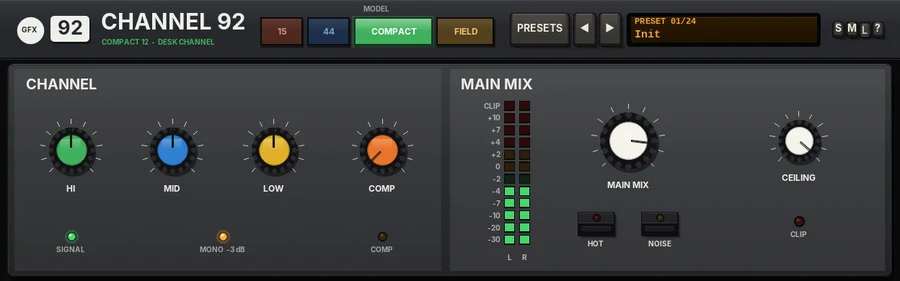
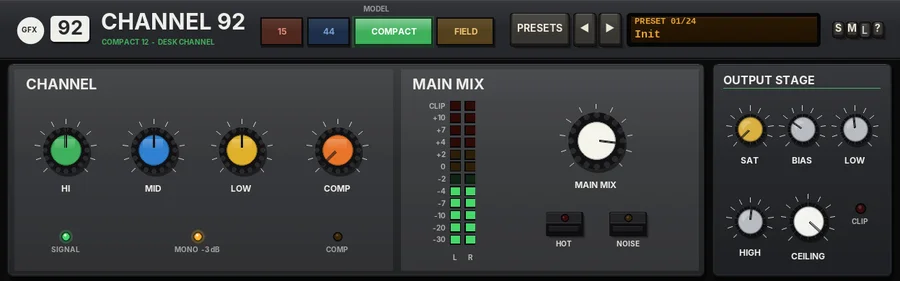
Channel 92: COMPACT gets the shared OUTPUT STAGE column; CHANNEL / MAIN MIX re-balanced; manual and images
Claude-Session: https://claude.ai/code/session_01EwsggPNgywXX6HG8VAWiaU

diff --git a/Manuals/gfx-channel-92.html b/Manuals/gfx-channel-92.html
@@ -45,7 +45,7 @@ footer{border-top:1px solid var(--line);margin-top:40px;padding:24px 0 40px;colo
 <div class="cat">Amps &amp; drive</div><h1>Channel 92</h1>
 <p class="tagline">The 92 series channel strip: the lo-fi 15, the rack tape 44, the COMPACT desk channel and the FIELD location preamp in one chassis.</p>
 <div class="shot"><img src="img/gfx-channel-92.webp" alt="The Channel 92 panel" loading="lazy"></div>
-<h2>Overview</h2><p>Channel 92 is the channel strip of the GFX 92 series: 90s domestic, portable and field gear - utilitarian, compact and mobile. It holds four channel strips in one chassis, and the MODEL keys choose which one is in the circuit:</p><ul><li><strong>15</strong> - the lo-fi channel, in the spirit of the early-80s ultra-portable cassette multitrackers (Model 15).</li><li><strong>44</strong> - the rack tape channel, in the spirit of the early-90s rack-mount cassette portable studios (Model 44).</li><li><strong>COMPACT</strong> - one channel of the little 12-channel desk from every 90s project studio, as a stereo channel strip (Compact 12), with a one-knob compressor.</li><li><strong>FIELD</strong> - one input channel of a battery-powered location mixer (Field 42).</li></ul><p>Each model is the original GFX plug-in, sample for sample: set the same controls and Channel 92 sounds exactly like Model 15, Model 44, one channel of Compact 12 or Field 42 (it nulls against them, with the output clip as described below). Each keeps its own faceplate, controls and layout; the 92 chassis around them adds the shared header, the presets and the output stage. Only the selected model runs, so it costs no more CPU than the original on its own.</p><h3>Reach for it for</h3><ul class="when"><li>Lo-fi cassette character on single tracks and stems (15)</li><li>Tape density and punch with a sweepable mid (44)</li><li>A clean, slightly forward desk channel with simple EQ and a one-knob compressor, or a gritty one with HOT (COMPACT)</li><li>A transformer mic pre with HPF and safety limiters for dialogue, acoustic and drum tracks (FIELD)</li><li>Trying four flavours of 90s gear on a track without swapping plug-ins</li></ul><h2>Controls</h2><h3>The 92 chassis</h3><p class="sub"><strong>The header</strong></p><dl class="ctl"><dt>92 badge, name</dt><dd>The series badge and the plug-in name; under the name, in the colour of the selected model, which model is in the circuit.</dd><dt>MODEL</dt><dd>15, 44, COMPACT or FIELD. Lit coloured keys: the lit key is the model in use (15 by default). Changing model crossfades over 20 ms, so it is click-free even while the music plays; the model you switch to starts from a clean state.</dd><dt>PRESETS</dt><dd>Opens the list of all 24 factory presets (a click on the preset display does the same). The list ends with Reset all to defaults.</dd><dt>&#9668; / &#9658;</dt><dd>Step to the previous or next preset.</dd><dt>Preset display</dt><dd>Shows the number and name of the preset in use. New instances open on Init.</dd><dt>S / M / L</dt><dd>Panel size: small, medium or large (Large is 1.3 times Medium). The panel also scales to fit the plugin window.</dd><dt>?</dt><dd>Opens a pop-up with the design credit, the GFX website address and the address of this manual. Click anywhere to close it.</dd></dl><p class="sub"><strong>OUTPUT STAGE</strong></p><p>The house output stage of the 15 and the 44, in the column at the right of their faceplates: it sits after the model, so it stays as it is when you change between them. Their own OUTPUT level comes after the band saturation, exactly as on the originals. Its soft clipper is always on (no latency); there are no mode keys. COMPACT shares only the CEILING (on its own faceplate, no band saturation); FIELD has no output stage controls: its output always clips softly at -0.3 dBFS, as part of the unit.</p><dl class="ctl"><dt>SAT</dt><dd>Band saturation, 0 - 100% (off by default): only the lows and highs are saturated, the mids stay clean, with a soft curve that loosens as the level rises.</dd><dt>BIAS</dt><dd>Shapes the saturation, 0 - 100% (30% by default): more bias adds more even (2nd) harmonics, for a warmer, rounder colour.</dd><dt>LOW / HIGH</dt><dd>Where the low and high saturation bands start: 40 - 400 Hz (120 Hz by default) and 2 - 16 kHz (6 kHz by default).</dd><dt>CEILING</dt><dd>-24 to 0 dB (-0.3 dB by default): the level the peaks are softly clipped at. The clipper starts to round the peaks off about 2 dB below it; below that it does nothing.</dd><dt>CLIP light</dt><dd>Lights red while the clipper is working.</dd></dl><p class="sub"><strong>Parameter list</strong></p><p>Every control is also in REAPER's parameter list. The names start with the model they belong to (15 Gain, 44 Mid freq, FIELD HPF ...); the shared output stage comes last. FIELD Input iron and FIELD Limiter attack / release are in the list only, as on Field 42.</p><h2>Model 15 - lo-fi channel</h2><div class="shot"><img src="img/gfx-channel-92-15.webp" alt="Channel 92 with the 15 model selected" loading="lazy"></div><h3>Overview</h3><p>Model 15 is a single channel of the classic early-80s ultra-portable cassette multitracker: a low-voltage, battery-driven preamp, a fixed broad-stroke tone stage, a sluggish tape-head saturation with a top end that closes down as the level rises, and an open, breathing hiss floor with simple single-band noise reduction.</p><p>Put it on individual stems to push them towards that compressed, boxy, warm little-recorder sound. The signal runs preamp, then tone, then tape, and MIX blends the result with the dry input.</p>
+<h2>Overview</h2><p>Channel 92 is the channel strip of the GFX 92 series: 90s domestic, portable and field gear - utilitarian, compact and mobile. It holds four channel strips in one chassis, and the MODEL keys choose which one is in the circuit:</p><ul><li><strong>15</strong> - the lo-fi channel, in the spirit of the early-80s ultra-portable cassette multitrackers (Model 15).</li><li><strong>44</strong> - the rack tape channel, in the spirit of the early-90s rack-mount cassette portable studios (Model 44).</li><li><strong>COMPACT</strong> - one channel of the little 12-channel desk from every 90s project studio, as a stereo channel strip (Compact 12), with a one-knob compressor.</li><li><strong>FIELD</strong> - one input channel of a battery-powered location mixer (Field 42).</li></ul><p>Each model is the original GFX plug-in, sample for sample: set the same controls and Channel 92 sounds exactly like Model 15, Model 44, one channel of Compact 12 or Field 42 (it nulls against them, with the output clip as described below). Each keeps its own faceplate, controls and layout; the 92 chassis around them adds the shared header, the presets and the output stage. Only the selected model runs, so it costs no more CPU than the original on its own.</p><h3>Reach for it for</h3><ul class="when"><li>Lo-fi cassette character on single tracks and stems (15)</li><li>Tape density and punch with a sweepable mid (44)</li><li>A clean, slightly forward desk channel with simple EQ and a one-knob compressor, or a gritty one with HOT (COMPACT)</li><li>A transformer mic pre with HPF and safety limiters for dialogue, acoustic and drum tracks (FIELD)</li><li>Trying four flavours of 90s gear on a track without swapping plug-ins</li></ul><h2>Controls</h2><h3>The 92 chassis</h3><p class="sub"><strong>The header</strong></p><dl class="ctl"><dt>92 badge, name</dt><dd>The series badge and the plug-in name; under the name, in the colour of the selected model, which model is in the circuit.</dd><dt>MODEL</dt><dd>15, 44, COMPACT or FIELD. Lit coloured keys: the lit key is the model in use (15 by default). Changing model crossfades over 20 ms, so it is click-free even while the music plays; the model you switch to starts from a clean state.</dd><dt>PRESETS</dt><dd>Opens the list of all 24 factory presets (a click on the preset display does the same). The list ends with Reset all to defaults.</dd><dt>&#9668; / &#9658;</dt><dd>Step to the previous or next preset.</dd><dt>Preset display</dt><dd>Shows the number and name of the preset in use. New instances open on Init.</dd><dt>S / M / L</dt><dd>Panel size: small, medium or large (Large is 1.3 times Medium). The panel also scales to fit the plugin window.</dd><dt>?</dt><dd>Opens a pop-up with the design credit, the GFX website address and the address of this manual. Click anywhere to close it.</dd></dl><p class="sub"><strong>OUTPUT STAGE</strong></p><p>The house output stage of the 15, the 44 and COMPACT, in the column at the right of their faceplates: it sits after the model, so it stays as it is when you change between them. On the 15 and the 44 their own OUTPUT level comes after the band saturation, exactly as on the originals. Its soft clipper is always on (no latency); there are no mode keys. FIELD has no output stage controls: its output always clips softly at -0.3 dBFS, as part of the unit.</p><dl class="ctl"><dt>SAT</dt><dd>Band saturation, 0 - 100% (off by default): only the lows and highs are saturated, the mids stay clean, with a soft curve that loosens as the level rises.</dd><dt>BIAS</dt><dd>Shapes the saturation, 0 - 100% (30% by default): more bias adds more even (2nd) harmonics, for a warmer, rounder colour.</dd><dt>LOW / HIGH</dt><dd>Where the low and high saturation bands start: 40 - 400 Hz (120 Hz by default) and 2 - 16 kHz (6 kHz by default).</dd><dt>CEILING</dt><dd>-24 to 0 dB (-0.3 dB by default): the level the peaks are softly clipped at. The clipper starts to round the peaks off about 2 dB below it; below that it does nothing.</dd><dt>CLIP light</dt><dd>Lights red while the clipper is working.</dd></dl><p class="sub"><strong>Parameter list</strong></p><p>Every control is also in REAPER's parameter list. The names start with the model they belong to (15 Gain, 44 Mid freq, FIELD HPF ...); the shared output stage comes last. FIELD Input iron and FIELD Limiter attack / release are in the list only, as on Field 42.</p><h2>Model 15 - lo-fi channel</h2><div class="shot"><img src="img/gfx-channel-92-15.webp" alt="Channel 92 with the 15 model selected" loading="lazy"></div><h3>Overview</h3><p>Model 15 is a single channel of the classic early-80s ultra-portable cassette multitracker: a low-voltage, battery-driven preamp, a fixed broad-stroke tone stage, a sluggish tape-head saturation with a top end that closes down as the level rises, and an open, breathing hiss floor with simple single-band noise reduction.</p><p>Put it on individual stems to push them towards that compressed, boxy, warm little-recorder sound. The signal runs preamp, then tone, then tape, and MIX blends the result with the dry input.</p>
 <p class="sub"><strong>Reach for it for</strong></p><ul class="when"><li>Bedroom-demo character on drums, guitars and vocals</li><li>Warm, boxy saturation that glues transients together</li><li>Lo-fi wobble, hiss and worn-tape dropouts</li><li>Making a clean stem sit with genuinely lo-fi material</li><li>Parallel tape colour with MIX</li></ul>
 <h3>Controls</h3><p class="sub"><strong>Channel</strong></p><dl class="ctl"><dt>Signal light</dt><dd>Glows green when audio is coming out of the plugin.</dd><dt>GAIN</dt><dd>The low-voltage preamp, -6 to +24 dB (+6 dB by default). Above 0 dB it clips early and asymmetrically, smearing transients and thickening the low mids.</dd><dt>TREBLE</dt><dd>A broad high shelf at 10 kHz, -10 to +10 dB. Push it hard and the shelf itself turns a little gritty and grainy rather than staying clean.</dd><dt>BASS</dt><dd>A broad low shelf at 100 Hz, -10 to +10 dB, with the same gentle grit when pushed.</dd><dt>TRIM</dt><dd>Input level before anything else, from -24 to +12 dB.</dd><dt>GUARD</dt><dd>On by default. Gently eases very hot sources down towards about -18 dBFS average and catches fast peaks above -6 dBFS, so loud sources never overdrive the plugin. It never boosts quiet sources.</dd><dt>MIX</dt><dd>The coloured signal against the dry input, 0 - 100%.</dd></dl><p class="sub"><strong>OUTPUT</strong></p><dl class="ctl"><dt>VU</dt><dd>One VU meter for the output: it reads the louder side, in the house calibration (a sine peaking at -18 dBFS reads 0 VU). The green light at the top of the CHANNEL section glows when audio is coming out.</dd></dl><p class="sub"><strong>Tape</strong></p><dl class="ctl"><dt>DRIVE</dt><dd>The tape saturation, 0 - 100% (35% by default): a sluggish magnetic memory ahead of a soft saturation curve, plus a top end that rolls off further as the level rises, gluing transients together. A small, fixed head bump around 80 Hz is always there.</dd><dt>WOW</dt><dd>Wow and flutter in the transport, 0 - 100 (25 by default): a slow wow, a slower random wander and a faint 6 Hz flutter.</dd><dt>HISS</dt><dd>The tape's own noise floor, 0 - 100 (50 by default). It ducks a little under the signal and swells back in the gaps. Each side has its own hiss.</dd><dt>AGE</dt><dd>An older, worn tape, 0 - 100 (15 by default): the top end goes further and short dropouts creep in, more often the higher you turn it.</dd><dt>OUTPUT</dt><dd>The output level, -24 to +12 dB.</dd><dt>NR</dt><dd>The simple B-type-style noise reduction, in by default: the quiet highs are lifted before the tape and taken back down after it, which lowers the hiss. Out gives the raw tape, hiss and all.</dd></dl><h3>Tips</h3><ul class="tips"><li>GAIN and DRIVE do different things: GAIN gives the preamp's early, edgy clipping, DRIVE the softer tape squash and darkening. Try one high and the other low.</li><li>On a set of stems, keep WOW low on all but one or two so the mix doesn't drift out of tune with itself.</li><li>Switching NR out is the quickest way to that hissy, open home-recording sound.</li><li>Turn MIX down to 40 - 60% to keep the attack of drums while adding the tape's body.</li></ul>
 <h2>Model 44 - rack channel</h2><div class="shot"><img src="img/gfx-channel-92-44.webp" alt="Channel 92 with the 44 model selected" loading="lazy"></div><h3>Overview</h3><p>Model 44 is a single channel strip in the spirit of the early-90s rack-mount cassette multitrack gear. The signal goes through a clean, high-headroom preamp, a three-band EQ with a sweepable mid, and then a tape stage: a dense magnetic saturation ceiling with a NORMAL / DOUBLE speed switch and compander noise reduction.</p><p>The preamp itself stays clean - the colour and the ceiling come from the tape. Double speed raises that ceiling, extends the top end and tightens the sub-bass, for a punchier, cleaner sound; normal speed is softer, darker and saturates earlier. The noise reduction is tuned to pump less than the earlier 80s machines.</p>
@@ -55,6 +55,6 @@ footer{border-top:1px solid var(--line);margin-top:40px;padding:24px 0 40px;colo
 <p class="sub"><strong>Reach for it for</strong></p><ul class="when"><li>Dialogue, voice-over and location recordings</li><li>A clean, safe preamp-and-limiter on any track</li><li>Gentle iron weight on drums, bass and acoustic instruments</li><li>Catching stray peaks before they reach the mix</li></ul>
 <h3>Controls</h3><p class="sub"><strong>INPUT</strong></p><dl class="ctl"><dt>VU meter</dt><dd>The level after the preamp, before the limiters, with VU ballistics. 0 VU = -20 dBFS.</dd><dt>PEAK</dt><dd>Lights when the preamp's output goes above -1 dBFS.</dd><dt>IN LIM / OUT LIM</dt><dd>Light when the input or output limiter is working.</dd></dl><p class="sub"><strong>PREAMP</strong></p><dl class="ctl"><dt>HPF</dt><dd>A high-pass filter, 80 to 240 Hz, 12 dB per octave, before the preamp. Fully left is OFF.</dd><dt>TRIM</dt><dd>Gain into the preamp, -20 to +40 dB.</dd><dt>IN LIMIT</dt><dd>The input safety limiter: fixed at -2 dBFS (+18 dBu), 20:1, very fast. On by default.</dd><dt>Ø</dt><dd>Polarity reverse.</dd><dt>IRON</dt><dd>The input transformer's colour (also in the parameter list).</dd></dl><p class="sub"><strong>CHANNEL</strong></p><dl class="ctl"><dt>PAN</dt><dd>Constant loudness: +3 dB at hard left or right, as on the hardware. On a stereo track it works as a balance.</dd><dt>FADER</dt><dd>Unity at 0 dB; -40 dB (OFF) to +10 dB.</dd><dt>TONE</dt><dd>A line-up oscillator that replaces the signal. The next key picks 1 kHz, 400 Hz or 100 Hz; LEVEL sets -20 to +8 dBu (0 dBu = -20 dBFS).</dd></dl><p class="sub"><strong>OUTPUT</strong></p><dl class="ctl"><dt>OFF / ON / LINK</dt><dd>The output limiter: off, each side on its own, or stereo-linked (the default).</dd><dt>LIMIT</dt><dd>The output limiter's threshold, +4 to +20 dBu (-16 to 0 dBFS), 20:1.</dd><dt>IRON</dt><dd>The output transformer: low-mid weight and a softer top when driven.</dd><dt>DRIFT</dt><dd>See Drift below.</dd><dt>OUT meters</dt><dd>The output level, left and right.</dd></dl><p class="sub"><strong>Parameter list only</strong></p><p>FIELD Input iron (the input transformer's colour, 30% by default) and FIELD Limiter attack and release (1 ms and 200 ms by default).</p><p class="sub"><strong>Drift</strong></p><p>DRIFT (0 - 100%, 50% by default) is battery sag. The supply voltage wanders slowly and droops under heavy, sustained level, so the preamp's headroom, the limiter thresholds and the transformers' drive all move a little - you hear it most when the unit is pushed. 50% is the standard amount, 100% twice that; 0% is a fresh battery.</p>
 <h3>Tips</h3><ul class="tips"><li>Set TRIM so the VU swings around 0 on the loud parts; that is where the iron starts to colour.</li><li>Use the TONE to line up levels between tracks or with other gear.</li><li>LINK keeps a stereo image steady under limiting; ON lets each side limit on its own.</li></ul>
-<p class="sub"><strong>Output</strong></p><p>The output always clips softly at -0.3 dBFS (the house clip at its default ceiling, no band saturation): it is part of the unit, with no controls. The TRIM glides to a new setting over about 20 ms, so turning it never clicks.</p><h2>COMPACT - desk channel (Compact 12)</h2><div class="shot"><img src="img/gfx-channel-92-compact.webp" alt="Channel 92 with the COMPACT model selected" loading="lazy"></div><h3>Overview</h3><p>One channel of the Compact 12 desk as a stereo channel strip: the desk's own channel EQ on both sides, then the desk's summing amp with MAIN MIX, HOT and NOISE, so a track gets the clean, tight, slightly forward sound of the little desk - or its gritty edge when you run it hot. Level, pan, mute and solo are left to REAPER's track. A one-knob compressor, as on many compact desks (the same design as on Strip 102), sits after the EQ.</p><p>Mono or stereo is automatic. When the two sides carry the same signal (a mono source) the strip treats it as one of the desk's mono channels and sits it 3 dB down, as the desk does at the centre of its pan; a stereo source passes at full level, as on the desk's stereo pairs. The change glides in or out over about 50 ms, so it never clicks. With COMP at 0 it sounds exactly like that mono channel, or that stereo pair, of Compact 12 summed on its own (with MID at 0 for a stereo pair, which has no MID on the desk).</p><h3>Reach for it for</h3><ul class="when"><li>Clean, honest channel EQ with a touch of desk character</li><li>Grit and bite on drums and bass with HOT</li><li>Quick, even level on vocals and guitars with the one-knob COMP</li><li>Stereo keys and synths through a stereo desk channel</li></ul><h3>Controls</h3><p class="sub"><strong>CHANNEL</strong></p><dl class="ctl"><dt>HI</dt><dd>A high shelf at 12 kHz, -15 to +15 dB.</dd><dt>MID</dt><dd>A peak at 2.5 kHz, -12 to +12 dB.</dd><dt>LOW</dt><dd>A low shelf at 80 Hz, -15 to +15 dB.</dd><dt>COMP</dt><dd>The one-knob compressor, 0 - 10 (0 = off, the default). Turning it up lowers the threshold (0 to -30 dB), raises the ratio (1:1 to 10:1) and adds make-up gain, so at normal levels (around -17 dBFS RMS) the overall level stays the same within about 1 dB however far you turn it. The detector hears both sides together.</dd><dt>SIGNAL</dt><dd>Glows green when signal arrives.</dd><dt>MONO -3 dB</dt><dd>Lights while the strip hears a mono source and applies the desk's 3 dB centre dip.</dd><dt>COMP (light)</dt><dd>Lights when the compressor is taking off more than 1 dB.</dd></dl><p class="sub"><strong>MAIN MIX</strong></p><dl class="ctl"><dt>Meters</dt><dd>12-LED meters for the left and right output, 0 = 0 VU = -18 dBFS.</dd><dt>MAIN MIX</dt><dd>The desk's main level, -60 dB (OFF) to +10 dB, into its summing amp.</dd><dt>HOT</dt><dd>Drives the summing amp into its rails: grit, edge and a little bite, level-matched.</dd><dt>NOISE</dt><dd>Adds the desk's own hiss floor, about -84 dBFS.</dd><dt>CEILING</dt><dd>The level of the always-on soft clip at the output, -24 to 0 dB (-0.3 dB by default; shared with the 15 and the 44).</dd><dt>CLIP</dt><dd>Lights red while the clip is working.</dd></dl><h3>Tips</h3><ul class="tips"><li>HOT on a drum bus or bass is the classic 90s project-studio grit; switch it in and out to hear it.</li><li>COMP between 2 and 4 evens out a vocal or acoustic guitar without sounding squashed; past 7 it pumps on purpose.</li><li>Set the level, pan and mutes on REAPER's track as usual: the strip has no LEVEL, BAL or MUTE of its own.</li></ul><h2>Presets</h2><p>Every preset of the three originals, named by model. Choosing one also selects its model. Like the originals, presets leave the output stage (and the controls each original left alone) as they are.</p><dl class="ctl"><dt>Init</dt><dd>The 15 at its default settings: the state a new instance opens in.</dd><dt>15: Bedroom Demo</dt><dd>The standard setting with a touch more TREBLE, BASS and DRIVE, NR in.</dd><dt>15: Hot and Boxy</dt><dd>The preamp pushed to +15 dB into 70% tape drive, with more hiss and age.</dd><dt>15: No NR, Open Tape</dt><dd>Noise reduction out and the hiss turned well up.</dd><dt>15: Worn-out Portable</dt><dd>Heavy wow, lots of age and dropouts, a little extra bass.</dd><dt>15: Clean-ish Portable</dt><dd>Preamp at 0 dB, light drive, wow, hiss and age.</dd><dt>44: Clean Double Speed</dt><dd>Double speed with light drive, a small treble lift and NR in.</dd><dt>44: Normal Speed Warm</dt><dd>Normal speed, more gain, a little low-mid and bass lift, NR in.</dd><dt>44: Rack Punch</dt><dd>Double speed, 14 dB of gain and 55% drive, with a 2.5 kHz and treble lift.</dd><dt>44: Scooped Mids</dt><dd>Double speed with a 4 dB cut at 600 Hz and a touch of treble and bass.</dd><dt>44: No NR</dt><dd>Normal speed with the noise reduction out: the raw tape.</dd><dt>COMPACT: Clean Channel</dt><dd>Flat EQ, COMP off, HOT and NOISE off, MAIN MIX at 0 dB.</dd><dt>COMPACT: Hot Channel</dt><dd>Flat, with HOT on: the summing amp pushed into its rails.</dd><dt>COMPACT: Hot and Noisy</dt><dd>HOT and the desk NOISE: the real thing.</dd><dt>COMPACT: Vocal Presence</dt><dd>HI +2, MID +3, LOW -3 dB with COMP at 4: forward and even.</dd><dt>COMPACT: Keys</dt><dd>HI +2, LOW +1 dB, a light COMP at 2.</dd><dt>FIELD: Init</dt><dd>Clean: HPF off, unity gain, both limiters on.</dd><dt>FIELD: Dialogue Boom</dt><dd>HPF at 120 Hz, +6 dB.</dd><dt>FIELD: Lavalier</dt><dd>HPF at 160 Hz to clear clothing rustle and rumble.</dd><dt>FIELD: Acoustic</dt><dd>HPF at 85 Hz, a little more iron.</dd><dt>FIELD: Drum Room</dt><dd>+12 dB into the iron, output limiter at +14 dBu.</dd><dt>FIELD: Kick and Bass</dt><dd>HPF off, heavy iron, limiter per side.</dd><dt>FIELD: Hot Field</dt><dd>+18 dB, lots of iron, a low output limit: dense and driven.</dd><dt>FIELD: Safety Net</dt><dd>Unity gain with the output limiter at +10 dBu: a quiet, safe ceiling.</dd><dt>Reset all to defaults</dt><dd>(Last in the list.) Every control of every model, the MODEL (back to 15) and the output stage to their starting values.</dd></dl><p>Changing preset on the 15 is click-free: the tape ducks out for a moment, the new settings come in at silence and it fades back in (as on Model 15).</p><h2>Tips</h2><ul class="tips"><li>To compare the models on a track, set the OUTPUT (15 / 44) or FADER (FIELD) so they play at the same level, then switch MODEL while the track loops: the 20 ms crossfade makes it a fair A/B.</li><li>Each model remembers its own settings while you use another, so you can set them all up and pick the one that fits.</li><li>The output stage stays put when you change between 15 and 44; the soft clip is always there as a safety net on every model.</li><li>Only FIELD drifts (battery sag); the 15 has its own wow and flutter instead.</li></ul>
+<p class="sub"><strong>Output</strong></p><p>The output always clips softly at -0.3 dBFS (the house clip at its default ceiling, no band saturation): it is part of the unit, with no controls. The TRIM glides to a new setting over about 20 ms, so turning it never clicks.</p><h2>COMPACT - desk channel (Compact 12)</h2><div class="shot"><img src="img/gfx-channel-92-compact.webp" alt="Channel 92 with the COMPACT model selected" loading="lazy"></div><h3>Overview</h3><p>One channel of the Compact 12 desk as a stereo channel strip: the desk's own channel EQ on both sides, then the desk's summing amp with MAIN MIX, HOT and NOISE, so a track gets the clean, tight, slightly forward sound of the little desk - or its gritty edge when you run it hot. Level, pan, mute and solo are left to REAPER's track. A one-knob compressor, as on many compact desks (the same design as on Strip 102), sits after the EQ.</p><p>Mono or stereo is automatic. When the two sides carry the same signal (a mono source) the strip treats it as one of the desk's mono channels and sits it 3 dB down, as the desk does at the centre of its pan; a stereo source passes at full level, as on the desk's stereo pairs. The change glides in or out over about 50 ms, so it never clicks. With COMP at 0 it sounds exactly like that mono channel, or that stereo pair, of Compact 12 summed on its own (with MID at 0 for a stereo pair, which has no MID on the desk).</p><h3>Reach for it for</h3><ul class="when"><li>Clean, honest channel EQ with a touch of desk character</li><li>Grit and bite on drums and bass with HOT</li><li>Quick, even level on vocals and guitars with the one-knob COMP</li><li>Stereo keys and synths through a stereo desk channel</li></ul><h3>Controls</h3><p class="sub"><strong>CHANNEL</strong></p><dl class="ctl"><dt>HI</dt><dd>A high shelf at 12 kHz, -15 to +15 dB.</dd><dt>MID</dt><dd>A peak at 2.5 kHz, -12 to +12 dB.</dd><dt>LOW</dt><dd>A low shelf at 80 Hz, -15 to +15 dB.</dd><dt>COMP</dt><dd>The one-knob compressor, 0 - 10 (0 = off, the default). Turning it up lowers the threshold (0 to -30 dB), raises the ratio (1:1 to 10:1) and adds make-up gain, so at normal levels (around -17 dBFS RMS) the overall level stays the same within about 1 dB however far you turn it. The detector hears both sides together.</dd><dt>SIGNAL</dt><dd>Glows green when signal arrives.</dd><dt>MONO -3 dB</dt><dd>Lights while the strip hears a mono source and applies the desk's 3 dB centre dip.</dd><dt>COMP (light)</dt><dd>Lights when the compressor is taking off more than 1 dB.</dd></dl><p class="sub"><strong>MAIN MIX</strong></p><dl class="ctl"><dt>Meters</dt><dd>12-LED meters for the left and right output, 0 = 0 VU = -18 dBFS.</dd><dt>MAIN MIX</dt><dd>The desk's main level, -60 dB (OFF) to +10 dB, into its summing amp.</dd><dt>HOT</dt><dd>Drives the summing amp into its rails: grit, edge and a little bite, level-matched.</dd><dt>NOISE</dt><dd>Adds the desk's own hiss floor, about -84 dBFS.</dd></dl><p class="sub"><strong>OUTPUT STAGE</strong></p><p>The 92 output stage column, shared with the 15 and the 44: SAT, BIAS, LOW, HIGH, CEILING and the CLIP light (see The 92 chassis above).</p><h3>Tips</h3><ul class="tips"><li>HOT on a drum bus or bass is the classic 90s project-studio grit; switch it in and out to hear it.</li><li>COMP between 2 and 4 evens out a vocal or acoustic guitar without sounding squashed; past 7 it pumps on purpose.</li><li>Set the level, pan and mutes on REAPER's track as usual: the strip has no LEVEL, BAL or MUTE of its own.</li></ul><h2>Presets</h2><p>Every preset of the three originals, named by model. Choosing one also selects its model. Like the originals, presets leave the output stage (and the controls each original left alone) as they are.</p><dl class="ctl"><dt>Init</dt><dd>The 15 at its default settings: the state a new instance opens in.</dd><dt>15: Bedroom Demo</dt><dd>The standard setting with a touch more TREBLE, BASS and DRIVE, NR in.</dd><dt>15: Hot and Boxy</dt><dd>The preamp pushed to +15 dB into 70% tape drive, with more hiss and age.</dd><dt>15: No NR, Open Tape</dt><dd>Noise reduction out and the hiss turned well up.</dd><dt>15: Worn-out Portable</dt><dd>Heavy wow, lots of age and dropouts, a little extra bass.</dd><dt>15: Clean-ish Portable</dt><dd>Preamp at 0 dB, light drive, wow, hiss and age.</dd><dt>44: Clean Double Speed</dt><dd>Double speed with light drive, a small treble lift and NR in.</dd><dt>44: Normal Speed Warm</dt><dd>Normal speed, more gain, a little low-mid and bass lift, NR in.</dd><dt>44: Rack Punch</dt><dd>Double speed, 14 dB of gain and 55% drive, with a 2.5 kHz and treble lift.</dd><dt>44: Scooped Mids</dt><dd>Double speed with a 4 dB cut at 600 Hz and a touch of treble and bass.</dd><dt>44: No NR</dt><dd>Normal speed with the noise reduction out: the raw tape.</dd><dt>COMPACT: Clean Channel</dt><dd>Flat EQ, COMP off, HOT and NOISE off, MAIN MIX at 0 dB.</dd><dt>COMPACT: Hot Channel</dt><dd>Flat, with HOT on: the summing amp pushed into its rails.</dd><dt>COMPACT: Hot and Noisy</dt><dd>HOT and the desk NOISE: the real thing.</dd><dt>COMPACT: Vocal Presence</dt><dd>HI +2, MID +3, LOW -3 dB with COMP at 4: forward and even.</dd><dt>COMPACT: Keys</dt><dd>HI +2, LOW +1 dB, a light COMP at 2.</dd><dt>FIELD: Init</dt><dd>Clean: HPF off, unity gain, both limiters on.</dd><dt>FIELD: Dialogue Boom</dt><dd>HPF at 120 Hz, +6 dB.</dd><dt>FIELD: Lavalier</dt><dd>HPF at 160 Hz to clear clothing rustle and rumble.</dd><dt>FIELD: Acoustic</dt><dd>HPF at 85 Hz, a little more iron.</dd><dt>FIELD: Drum Room</dt><dd>+12 dB into the iron, output limiter at +14 dBu.</dd><dt>FIELD: Kick and Bass</dt><dd>HPF off, heavy iron, limiter per side.</dd><dt>FIELD: Hot Field</dt><dd>+18 dB, lots of iron, a low output limit: dense and driven.</dd><dt>FIELD: Safety Net</dt><dd>Unity gain with the output limiter at +10 dBu: a quiet, safe ceiling.</dd><dt>Reset all to defaults</dt><dd>(Last in the list.) Every control of every model, the MODEL (back to 15) and the output stage to their starting values.</dd></dl><p>Changing preset on the 15 is click-free: the tape ducks out for a moment, the new settings come in at silence and it fades back in (as on Model 15).</p><h2>Tips</h2><ul class="tips"><li>To compare the models on a track, set the OUTPUT (15 / 44) or FADER (FIELD) so they play at the same level, then switch MODEL while the track loops: the 20 ms crossfade makes it a fair A/B.</li><li>Each model remembers its own settings while you use another, so you can set them all up and pick the one that fits.</li><li>The output stage stays put when you change between 15, 44 and COMPACT; the soft clip is always there as a safety net on every model.</li><li>Only FIELD drifts (battery sag); the 15 has its own wow and flutter instead.</li></ul>
 <p class="file">File: gfx-channel-92.jsfx</p></section></main>
 <footer><div class="wrap">GFX (Garden FX) - free JSFX plug-ins for REAPER. Designed by JGWizrad. <a href="https://www.gardenfx.uk/">https://www.gardenfx.uk/</a></div></footer></body></html>
